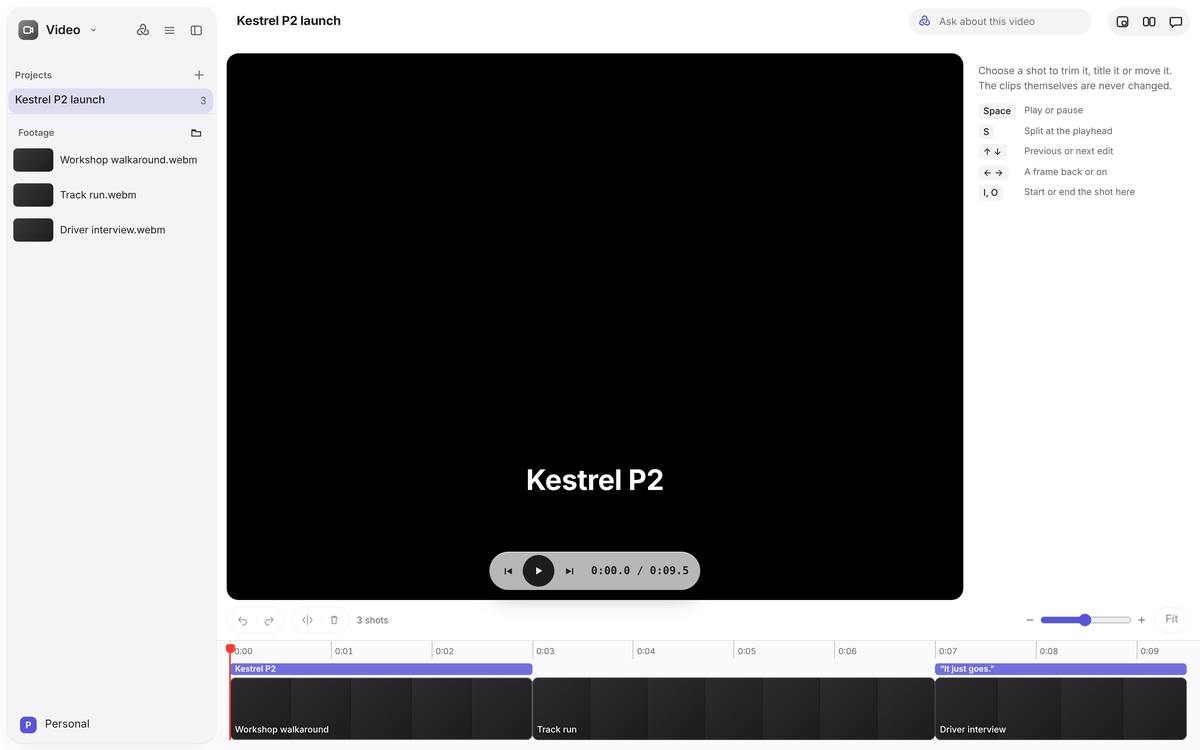
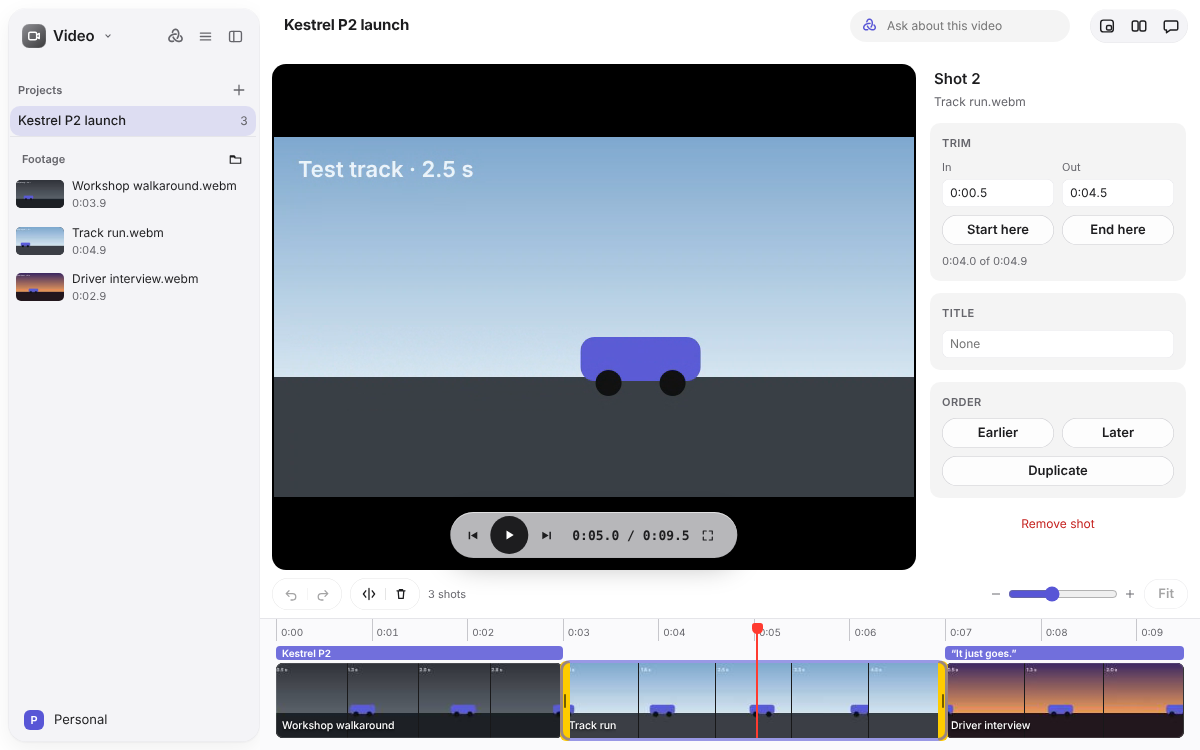
Video: right-click menus, Duplicate, timecode In and Out, full-screen play
- A shot's right-click menu: Split at the playhead, Duplicate, Add or Edit title,
  Move earlier or later, Remove shot, with their keys. Footage clips get one too.
- Duplicate a shot (Ctrl+D / Cmd+D, the menu, or the inspector).
- In and Out read and take timecode (0:02.5) or plain seconds; Enter or leaving
  the field sets it, Escape puts it back.
- Full screen for the viewer and its transport (F, or the button in the HUD).
- Unit tests for duplicateShot and parseTimecode; e2e covers the menu and fields.
- README screenshot and docs/apps/create.md updated.

Claude-Session: https://claude.ai/code/session_01VRGwo9YNE7aMEAh1Jt7qNZ

diff --git a/apps/desktop/src/Video.tsx b/apps/desktop/src/Video.tsx
@@ -1,14 +1,16 @@
 import { RowMark } from './RowMark';
 import { FromMobius } from './FromMobius';
 import { EmptyState } from './EmptyState';
-import { useCallback, useEffect, useMemo, useRef, useState, type DragEvent, type FormEvent, type PointerEvent as ReactPointerEvent, type ReactNode } from 'react';
+import { useCallback, useEffect, useMemo, useRef, useState, type DragEvent, type FormEvent, type MouseEvent as ReactMouseEvent, type PointerEvent as ReactPointerEvent, type ReactNode } from 'react';
+import { createPortal } from 'react-dom';
+import { ContextMenu, type ContextMenuItem } from './ContextMenu';
 import { changedShots, cutLength, locate, parseCut, shotLength, shotStart, timecode, type Cut, type Shot } from './cut-format';
 import { useFileReview } from './useFileReview';
 import type { VideoState } from './useVideo';
 import { ReviewActions, WhyThis } from './ReviewBar';
 import { onCommand } from './commands';
 import { emptyHistory, recorded, redone, undone, type History } from './photo-view';
-import { dropIndex, filmstrip, insertClip, moveShot, nextEdit, removeShot, rulerLabel, rulerMarks, splitAt, trimShot } from './video-view';
+import { dropIndex, duplicateShot, filmstrip, insertClip, moveShot, nextEdit, parseTimecode, removeShot, rulerLabel, rulerMarks, splitAt, trimShot } from './video-view';
 import './video.css';
 
 const Icon = ({ d, fill }: { d: string; fill?: boolean }) => (
@@ -22,6 +24,31 @@ const CLIP_TYPE = 'application/x-mobius-clip';
 const SHOT_TYPE = 'application/x-mobius-shot';
 const FRAME_W = 80;
 const FPS = 30;
+const MOD = () => (window.mobius?.platform === 'darwin' ? '⌘' : 'Ctrl+');
+const FULL = 'M4 8V4h4M16 8V4h-4M4 12v4h4M16 12v4h-4';
+const EXIT_FULL = 'M8 4v4H4M12 4v4h4M8 16v-4H4M12 16v-4h4';
+
+/** A menu where it was asked for, over everything (a glass sidebar would otherwise clip it). */
+type MenuAt = { x: number; y: number; label: string; items: ContextMenuItem[] };
+function Menu({ menu, onClose }: { menu: MenuAt | null; onClose: () => void }) {
+  return menu ? createPortal(<ContextMenu x={menu.x} y={menu.y} label={menu.label} items={menu.items} onClose={onClose} />, document.body) : null;
+}
+
+/** A time in a shot, typed as timecode (1:05.3) or seconds: kept as typed until Enter or leaving the field, Escape puts it back. */
+function TimeField({ label, value, title, onCommit }: { label: string; value: number; title: string; onCommit: (secs: number) => void }) {
+  const [draft, setDraft] = useState<string | null>(null);
+  const shown = draft ?? timecode(value);
+  const bad = draft !== null && parseTimecode(draft) === null;
+  const commit = () => { if (draft === null) return; const got = parseTimecode(draft); setDraft(null); if (got !== null && got !== value) onCommit(got); };
+  return (
+    <label className="video-field" title={title}>
+      <span>{label}</span>
+      <input aria-label={label} inputMode="decimal" spellCheck={false} value={shown} aria-invalid={bad || undefined}
+        onChange={(e) => setDraft(e.target.value)} onBlur={commit}
+        onKeyDown={(e) => { if (e.key === 'Enter') { e.preventDefault(); commit(); } else if (e.key === 'Escape') { e.preventDefault(); setDraft(null); } }} />
+    </label>
+  );
+}
 
 /**
  * Frames from the clips, for the filmstrips and the footage list: read once with a hidden player, a clip at a time,
@@ -89,6 +116,14 @@ export function VideoSidebar({ video, pin, changed }: { video: VideoState; pin?:
   const frame = useFrames(video);
   const submit = async (e: FormEvent) => { e.preventDefault(); if (await video.createProject(name.trim() || 'Project')) { setNaming(false); setName(''); } };
   const addShot = (clip: string) => video.change(insertClip(video.cut, clip, video.lengthOf(clip)));
+  const [menu, setMenu] = useState<MenuAt | null>(null);
+  const clipMenu = (clip: string) => (e: ReactMouseEvent) => {
+    e.preventDefault();
+    setMenu({ x: e.clientX, y: e.clientY, label: clip, items: [
+      { label: 'Add to the end of the cut', run: () => addShot(clip) },
+      { action: 'reveal', label: 'Show in folder', run: () => void video.showFolder(), separated: true },
+    ] });
+  };
   return (
     <aside className="side video-side" aria-label="Video sidebar">
       <div className="side-head">
@@ -131,6 +166,7 @@ export function VideoSidebar({ video, pin, changed }: { video: VideoState; pin?:
               const poster = c.kind === 'video' && len ? frame(c.name, Math.round(Math.min(len / 2, 1) * 4) / 4) : undefined;
               return (
                 <li key={c.name} className="video-clip" draggable title={`${c.name}\nDrag into the timeline, or add it to the end`}
+                  onContextMenu={clipMenu(c.name)}
                   onDragStart={(e) => { e.dataTransfer.setData(CLIP_TYPE, c.name); e.dataTransfer.effectAllowed = 'copy'; }}>
                   <span className="video-clip-thumb" data-kind={c.kind} aria-hidden="true">{poster ? <img src={poster} alt="" draggable={false} /> : null}</span>
                   <span className="video-clip-text">
@@ -145,15 +181,17 @@ export function VideoSidebar({ video, pin, changed }: { video: VideoState; pin?:
         </section>
       )}
       <FromMobius items={video.projects.filter((p) => changed?.has(p.name)).map((p) => ({ key: p.name, name: p.name, current: video.project === p.name, onOpen: () => void video.open(p.name) }))} />
+      <Menu menu={menu} onClose={() => setMenu(null)} />
     </aside>
   );
 }
 
 /** One shot in the timeline: its filmstrip, its title above it, and handles at its ends to trim it. */
-function ShotBlock({ shot, index, width, selected, playing, proposed, frame, onSelect, onTrim, onDragStart }: {
+function ShotBlock({ shot, index, width, selected, playing, proposed, frame, onSelect, onTrim, onDragStart, onMenu }: {
   shot: Shot; index: number; width: number; selected: boolean; playing: boolean; proposed: boolean;
   frame: (clip: string, t: number) => string | undefined;
   onSelect: () => void; onTrim: (edge: 'in' | 'out') => (e: ReactPointerEvent) => void; onDragStart: (e: DragEvent) => void;
+  onMenu: (e: ReactMouseEvent) => void;
 }) {
   const times = filmstrip(shot, width, FRAME_W);
   return (
@@ -169,6 +207,7 @@ function ShotBlock({ shot, index, width, selected, playing, proposed, frame, onS
       draggable
       onDragStart={onDragStart}
       onClick={onSelect}
+      onContextMenu={onMenu}
     >
       <span className="video-shot-film" aria-hidden="true">
         {times.map((t, i) => { const src = frame(shot.clip, t); return <span key={i} className="video-shot-frame">{src ? <img src={src} alt="" draggable={false} /> : null}</span>; })}
@@ -196,6 +235,10 @@ export function VideoEditor({ video, review }: { video: VideoState; review?: { c
   const [zoom, setZoom] = useState<number | null>(null);
   const [dropAt, setDropAt] = useState<number | null>(null);
   const [width, setWidth] = useState(900);
+  const [menu, setMenu] = useState<MenuAt | null>(null);
+  const [full, setFull] = useState(false);
+  const viewer = useRef<HTMLDivElement>(null);
+  const titleField = useRef<HTMLInputElement>(null);
   const frame = useFrames(video);
   const { cut } = video;
   const file = video.project ? `video/${video.project}/cut.json` : null;
@@ -258,6 +301,33 @@ export function VideoEditor({ video, review }: { video: VideoState; review?: { c
   const seek = (to: number) => { const at = Math.max(0, Math.min(total, to)); const where = locate(cut, at); setT(at); if (where) cue(where.index, where.clipTime, playing); };
   const split = () => { const got = splitAt(cut, t); if (got) { edit(got.cut); setSelected(got.id); } };
   const remove = (id: string) => { edit(removeShot(cut, id)); setSelected(null); };
+  const duplicate = (id: string) => { const got = duplicateShot(cut, id); if (got) { edit(got.cut); setSelected(got.id); } };
+  const nameIt = (id: string) => { setSelected(id); window.requestAnimationFrame(() => titleField.current?.focus()); };
+  // Full screen: the viewer with its transport, as QuickTime and iMovie play.
+  const fullScreen = () => {
+    if (document.fullscreenElement) void document.exitFullscreen().catch(() => undefined);
+    else void viewer.current?.requestFullscreen().catch(() => undefined);
+  };
+  useEffect(() => {
+    const look = () => setFull(document.fullscreenElement !== null && document.fullscreenElement === viewer.current);
+    document.addEventListener('fullscreenchange', look);
+    return () => document.removeEventListener('fullscreenchange', look);
+  }, []);
+  /** A shot's right-click menu: the timeline's tools for that one shot, with their keys. */
+  const shotMenu = (s: Shot, i: number) => (e: ReactMouseEvent) => {
+    e.preventDefault();
+    setSelected(s.id);
+    const start = shotStart(cut, i);
+    const inside = t > start && t < start + shotLength(s);
+    setMenu({ x: e.clientX, y: e.clientY, label: `Shot ${i + 1}`, items: [
+      { label: 'Split at the playhead', keys: 'S', disabled: !inside || splitAt(cut, t) === null, run: split },
+      { action: 'duplicate', keys: `${MOD()}D`, run: () => duplicate(s.id) },
+      { action: 'rename', label: s.title ? 'Edit title' : 'Add title', run: () => nameIt(s.id) },
+      { label: 'Move earlier', disabled: i === 0, run: () => edit(moveShot(cut, s.id, i - 1)), separated: true },
+      { label: 'Move later', disabled: i === cut.shots.length - 1, run: () => edit(moveShot(cut, s.id, i + 1)) },
+      { action: 'delete', label: 'Remove shot', keys: 'Delete', danger: true, separated: true, run: () => remove(s.id) },
+    ] });
+  };
   const setShot = (id: string, tag: string, fn: (s: Shot) => void) => edit({ ...cut, shots: cut.shots.map((s) => { if (s.id !== id) return s; const n = { ...s }; fn(n); n.out = Math.max(n.in + 0.1, n.out); return n; }) }, `${tag}:${id}`);
   const playheadIn = (id: string) => cut.shots[index]?.id === id && player.current ? Math.round(player.current.currentTime * 100) / 100 : null;
 
@@ -268,14 +338,16 @@ export function VideoEditor({ video, review }: { video: VideoState; review?: { c
     const mod = e.ctrlKey || e.metaKey;
     if (mod && (e.key === 'z' || e.key === 'Z')) { e.preventDefault(); if (e.shiftKey) redo(); else undo(); return; }
     if (mod && e.key === 'y') { e.preventDefault(); redo(); return; }
-    if (mod || e.altKey) return;
     const sel = selected && cut.shots.find((s) => s.id === selected);
+    if (mod && (e.key === 'd' || e.key === 'D') && !e.shiftKey) { if (sel) { e.preventDefault(); duplicate(sel.id); } return; }
+    if (mod || e.altKey) return;
     if (e.key === ' ' || e.key === 'k') { if (e.target instanceof HTMLButtonElement && e.key === ' ') return; e.preventDefault(); toggle(); }
     else if (e.key === 'ArrowLeft' || e.key === 'ArrowRight') { e.preventDefault(); seek(t + (e.key === 'ArrowRight' ? 1 : -1) * (e.shiftKey ? 1 : 1 / FPS)); }
     else if (e.key === 'ArrowUp' || e.key === 'ArrowDown') { e.preventDefault(); const to = nextEdit(cut, t, e.key === 'ArrowDown' ? 1 : -1); if (to !== null) seek(to); }
     else if (e.key === 'Home') { e.preventDefault(); seek(0); }
     else if (e.key === 'End') { e.preventDefault(); seek(total); }
     else if (e.key === 's' || e.key === 'S') { e.preventDefault(); split(); }
+    else if (e.key === 'f' || e.key === 'F') { if (shot) { e.preventDefault(); fullScreen(); } }
     else if ((e.key === 'Delete' || e.key === 'Backspace') && sel) { e.preventDefault(); remove(sel.id); }
     else if ((e.key === 'i' || e.key === 'o') && sel) { const at = playheadIn(sel.id); if (at !== null) { e.preventDefault(); setShot(sel.id, e.key, (s) => { if (e.key === 'i') s.in = at; else s.out = at; }); } }
     else if (e.key === 'Escape' && sel) setSelected(null);
@@ -369,7 +441,7 @@ export function VideoEditor({ video, review }: { video: VideoState; review?: { c
   return (
     <section ref={page} className="video-page" aria-label="Video" onDragOver={(e) => e.preventDefault()} onDrop={onDrop}>
       <div className="video-top">
-        <div className="video-viewer">
+        <div ref={viewer} className="video-viewer" data-full={full || undefined}>
           <div className="video-screen">
             <video ref={player} className="video-player" aria-label="Viewer" playsInline onTimeUpdate={onTime} onEnded={onTime} onError={() => setUnplayable(true)} onLoadedMetadata={() => setUnplayable(false)} onClick={toggle} />
             {shot?.title && <div className="video-title">{shot.title}</div>}
@@ -381,6 +453,7 @@ export function VideoEditor({ video, review }: { video: VideoState; review?: { c
             <button type="button" className="video-play" aria-label={playing ? 'Pause' : 'Play'} title={`${playing ? 'Pause' : 'Play'} (Space)`} disabled={!shot} onClick={toggle}><Icon d={playing ? PAUSE : PLAY} fill /></button>
             <button type="button" className="strip-btn" aria-label="Next edit" title="Next edit (↓)" disabled={!shot} onClick={() => { const to = nextEdit(cut, t, 1); if (to !== null) seek(to); }}><Icon d="M13.5 5h2v10h-2zM4 5l8.5 5L4 15z" fill /></button>
             <span className="video-time" aria-label="Time">{`${timecode(t)} / ${timecode(total)}`}</span>
+            <button type="button" className="strip-btn" aria-label={full ? 'Exit full screen' : 'Full screen'} title={`${full ? 'Exit full screen' : 'Full screen'} (F)`} disabled={!shot} onClick={fullScreen}><Icon d={full ? EXIT_FULL : FULL} /></button>
           </div>
         </div>
         <aside className="video-inspector" aria-label="Shot">
@@ -393,8 +466,8 @@ export function VideoEditor({ video, review }: { video: VideoState; review?: { c
               <section className="video-group" aria-label="Trim">
                 <h3>Trim</h3>
                 <div className="video-fields">
-                  <label className="video-field"><span>In</span><input aria-label="In" type="number" step={0.1} min={0} value={sel.in} onChange={(e) => setShot(sel.id, 'in', (s) => { s.in = Math.max(0, Number(e.target.value) || 0); })} /></label>
-                  <label className="video-field"><span>Out</span><input aria-label="Out" type="number" step={0.1} min={0} value={sel.out} onChange={(e) => setShot(sel.id, 'out', (s) => { s.out = Math.min(video.lengthOf(s.clip) || Infinity, Number(e.target.value) || 0); })} /></label>
+                  <TimeField key={`in-${sel.id}`} label="In" value={sel.in} title="Where the shot starts in its clip: 0:02.5, or seconds" onCommit={(v) => setShot(sel.id, 'in', (s) => { s.in = Math.max(0, Math.min(v, s.out - 0.1)); })} />
+                  <TimeField key={`out-${sel.id}`} label="Out" value={sel.out} title="Where the shot ends in its clip: 0:06.0, or seconds" onCommit={(v) => setShot(sel.id, 'out', (s) => { s.out = Math.min(video.lengthOf(s.clip) || Infinity, v); })} />
                 </div>
                 <div className="video-pair">
                   <button type="button" className="btn" disabled={playheadIn(sel.id) === null} title="Start the shot at the playhead (I)" onClick={() => { const at = playheadIn(sel.id); if (at !== null) setShot(sel.id, 'in', (s) => { s.in = at; }); }}>Start here</button>
@@ -404,7 +477,7 @@ export function VideoEditor({ video, review }: { video: VideoState; review?: { c
               </section>
               <section className="video-group" aria-label="Title">
                 <h3>Title</h3>
-                <input className="video-text" aria-label="Title" value={sel.title} maxLength={200} placeholder="None" onChange={(e) => setShot(sel.id, 'title', (s) => { s.title = e.target.value; })} />
+                <input ref={titleField} className="video-text" aria-label="Title" value={sel.title} maxLength={200} placeholder="None" onChange={(e) => setShot(sel.id, 'title', (s) => { s.title = e.target.value; })} />
               </section>
               <section className="video-group" aria-label="Order">
                 <h3>Order</h3>
@@ -412,6 +485,7 @@ export function VideoEditor({ video, review }: { video: VideoState; review?: { c
                   <button type="button" className="btn" disabled={selIndex <= 0} onClick={() => edit(moveShot(cut, sel.id, selIndex - 1))}>Earlier</button>
                   <button type="button" className="btn" disabled={selIndex >= cut.shots.length - 1} onClick={() => edit(moveShot(cut, sel.id, selIndex + 1))}>Later</button>
                 </div>
+                <button type="button" className="btn video-wide" title={`Put a copy of the shot after it (${MOD()}D)`} onClick={() => duplicate(sel.id)}>Duplicate</button>
               </section>
               <button type="button" className="video-remove" onClick={() => remove(sel.id)}>Remove shot</button>
             </>
@@ -424,6 +498,8 @@ export function VideoEditor({ video, review }: { video: VideoState; review?: { c
                 <dt>↑ ↓</dt><dd>Previous or next edit</dd>
                 <dt>← →</dt><dd>A frame back or on</dd>
                 <dt>I, O</dt><dd>Start or end the shot here</dd>
+                <dt>{`${MOD()}D`}</dt><dd>Duplicate the shot</dd>
+                <dt>F</dt><dd>Full screen</dd>
               </dl>
             </div>
           )}
@@ -465,13 +541,15 @@ export function VideoEditor({ video, review }: { video: VideoState; review?: { c
               <ShotBlock key={s.id} shot={s} index={i} width={Math.max(12, shotLength(s) * pxPerSec)} selected={selected === s.id} playing={index === i} proposed={changed.has(s.id)} frame={frame}
                 onSelect={() => { setSelected(s.id); seek(shotStart(cut, i)); }}
                 onTrim={trimDown(s.id)}
-                onDragStart={(e) => { e.dataTransfer.setData(SHOT_TYPE, s.id); e.dataTransfer.effectAllowed = 'move'; }} />
+                onDragStart={(e) => { e.dataTransfer.setData(SHOT_TYPE, s.id); e.dataTransfer.effectAllowed = 'move'; }}
+                onMenu={shotMenu(s, i)} />
             ))}
             {dropAt !== null && <span className="video-drop" style={{ left: shotStart(cut, dropAt) * pxPerSec }} aria-hidden="true" />}
           </div>
           <span className="video-playhead" style={{ left: t * pxPerSec }} aria-hidden="true" onPointerDown={scrubDown} />
         </div>
       </div>
+      <Menu menu={menu} onClose={() => setMenu(null)} />
     </section>
   );
 }

diff --git a/apps/desktop/src/video-view.test.ts b/apps/desktop/src/video-view.test.ts
@@ -1,6 +1,6 @@
 import { describe, expect, it } from 'vitest';
 import type { Cut } from './cut-format';
-import { dropIndex, editPoints, filmstrip, insertClip, moveShot, nextEdit, removeShot, rulerLabel, rulerMarks, splitAt, trimShot } from './video-view';
+import { dropIndex, duplicateShot, editPoints, filmstrip, insertClip, moveShot, nextEdit, parseTimecode, removeShot, rulerLabel, rulerMarks, splitAt, trimShot } from './video-view';
 
 const cut: Cut = { version: 1, shots: [
   { id: 's1', clip: 'a.mp4', in: 1, out: 4, title: 'Hello' },
@@ -56,5 +56,33 @@ describe('the timeline', () => {
   it('picks a frame for each part of a shot', () => {
     expect(filmstrip(cut.shots[0]!, 180, 60)).toEqual([1.5, 2.5, 3.5]);
     expect(filmstrip(cut.shots[1]!, 20, 60)).toEqual([1]);
+  });
+});
+
+describe('duplicateShot', () => {
+  it('puts a copy with a fresh id right after the shot, and keeps its trim and title', () => {
+    const got = duplicateShot(cut, cut.shots[0]!.id)!;
+    expect(got.cut.shots).toHaveLength(cut.shots.length + 1);
+    const copy = got.cut.shots[1]!;
+    expect(copy.id).toBe(got.id);
+    expect(cut.shots.some((s) => s.id === copy.id)).toBe(false);
+    expect({ ...copy, id: '' }).toEqual({ ...cut.shots[0]!, id: '' });
+    expect(got.cut.shots[2]).toBe(cut.shots[1]);
+  });
+  it('is null for a shot that is not there', () => expect(duplicateShot(cut, 'nope')).toBeNull());
+});
+
+describe('parseTimecode', () => {
+  it('reads timecode and plain seconds', () => {
+    expect(parseTimecode('1:05.3')).toBe(65.3);
+    expect(parseTimecode('0:05')).toBe(5);
+    expect(parseTimecode(' 2.5 ')).toBe(2.5);
+    expect(parseTimecode('7')).toBe(7);
+    expect(parseTimecode('1:02:03.5')).toBe(3723.5);
+    expect(parseTimecode('0:02,5')).toBe(2.5);
+    expect(parseTimecode('.5')).toBe(0.5);
+  });
+  it('is null for anything else', () => {
+    for (const bad of ['', 'abc', '1:', ':5', '-1', '1.5:00', '1:2:3:4', '5s']) expect(parseTimecode(bad)).toBeNull();
   });
 });

diff --git a/apps/desktop/e2e/video.spec.ts b/apps/desktop/e2e/video.spec.ts
@@ -56,7 +56,11 @@ test('clips are played through the media address, added to the cut as shots, tri
 
   await timeline().getByRole('option', { name: /^Shot 2: sunset\.webm/ }).click();
   const shot = shell().getByRole('complementary', { name: 'Shot' });
-  await shot.getByRole('spinbutton', { name: 'Out' }).fill('2.5');
+  // In and Out read as timecode, and take it or plain seconds.
+  await expect(shot.getByRole('textbox', { name: 'Out' })).toHaveValue('0:05.0');
+  await shot.getByRole('textbox', { name: 'Out' }).fill('2.5');
+  await shot.getByRole('textbox', { name: 'Out' }).press('Enter');
+  await expect(shot.getByRole('textbox', { name: 'Out' })).toHaveValue('0:02.5');
   await shot.getByRole('textbox', { name: 'Title' }).fill('Sunset');
   await shot.getByRole('button', { name: 'Earlier' }).click();
   await expect.poll(() => saved().shots.map((s) => [s.clip, s.out, (s as { title?: string }).title ?? ''])).toEqual([['sunset.webm', 2.5, 'Sunset'], ['terrace.webm', 5, '']]);
@@ -66,6 +70,11 @@ test('clips are played through the media address, added to the cut as shots, tri
   await shell().getByRole('toolbar', { name: 'Transport' }).getByRole('button', { name: 'Play' }).click();
   await expect(shell().getByLabel('Time', { exact: true })).not.toHaveText(before ?? '', { timeout: 5000 });
   await expect(shell().getByRole('status').filter({ hasText: 'cannot be played' })).toHaveCount(0);
+
+  // A shot's right-click menu duplicates it, the copy right after it.
+  await timeline().getByRole('option', { name: /^Shot 1: sunset\.webm/ }).click({ button: 'right' });
+  await shell().getByRole('menu', { name: 'Shot 1' }).getByRole('menuitem', { name: 'Duplicate' }).click();
+  await expect.poll(() => saved().shots.map((s) => [s.clip, s.out, (s as { title?: string }).title ?? ''])).toEqual([['sunset.webm', 2.5, 'Sunset'], ['sunset.webm', 2.5, 'Sunset'], ['terrace.webm', 5, '']]);
 });
 
 test('a rough cut from Mobius is shown dashed, and kept', async () => {

diff --git a/apps/desktop/src/video-view.ts b/apps/desktop/src/video-view.ts
@@ -108,3 +108,25 @@ export function filmstrip(shot: Shot, widthPx: number, frameWidth: number): numb
   // Rounded to a quarter second, so neighbouring shots of the same clip share frames.
   return Array.from({ length: n }, (_, i) => Math.round((shot.in + ((i + 0.5) / n) * len) * 4) / 4);
 }
+
+/** The cut with a copy of a shot put in right after it, and the copy's id; null when there is no such shot. */
+export function duplicateShot(cut: Cut, id: string): { cut: Cut; id: string } | null {
+  const i = cut.shots.findIndex((s) => s.id === id);
+  if (i < 0) return null;
+  const copy = { ...cut.shots[i]!, id: freshShotId(cut) };
+  const shots = [...cut.shots];
+  shots.splice(i + 1, 0, copy);
+  return { cut: { ...cut, shots }, id: copy.id };
+}
+
+/**
+ * Seconds from what someone typed in a timecode field: "1:05.3", "0:05", "65.3" or "5". Null when it is not a time.
+ * Hours are allowed ("1:02:03.5"), as is a comma for the decimal point.
+ */
+export function parseTimecode(text: string): number | null {
+  const parts = text.trim().replace(',', '.').split(':');
+  if (parts.length === 0 || parts.length > 3 || parts.some((p) => !/^\d+(\.\d*)?$|^\.\d+$/.test(p))) return null;
+  if (parts.slice(0, -1).some((p) => p.includes('.'))) return null;
+  const secs = parts.reduce((sum, p) => sum * 60 + Number(p), 0);
+  return Number.isFinite(secs) ? round(secs) : null;
+}

diff --git a/apps/desktop/src/video.css b/apps/desktop/src/video.css
@@ -103,3 +103,10 @@
 /* A narrow window keeps the inspector, narrower: trimming and titling need it. */
 @media (max-width: 1100px) { .video-top { grid-template-columns: minmax(0, 1fr) 200px; } .video-hud .video-time { font-size: 12px; } }
 @media (prefers-reduced-motion: reduce) { .video-play { transition: none; } }
+
+/* Round 1 polish: a full-width button in a group, a field that does not read as a time, and the viewer full screen. */
+.video-wide { width: 100%; justify-content: center; }
+.video-field input[aria-invalid] { box-shadow: inset 0 0 0 1px var(--danger); }
+.video-viewer:fullscreen { background: #000; }
+.video-viewer:fullscreen .video-screen { border-radius: 0; }
+.video-viewer:fullscreen .video-hud { bottom: var(--sp-6); }

diff --git a/README.md b/README.md
@@ -150,7 +150,7 @@ Mobius's own apps, always there.
 <td width="50%" valign="top"><img src="docs/readme/apps/music.png" alt="The Music app in Mobius"><br><b>Music</b> · A small studio for writing songs as notes: tracks, piano roll, mixer.<br><sub>Write a tune or a sting. Mobius reads and writes notes, so it can add a bassline.</sub></td>
 </tr>
 <tr>
-<td width="50%" valign="top"><img src="docs/readme/apps/video.png" alt="The Video app in Mobius"><br><b>Video</b> · Cut footage into a short film on a timeline.<br><sub>Trim, split and order shots in a filmstrip timeline, and ask Mobius about the cut.</sub></td>
+<td width="50%" valign="top"><img src="docs/readme/apps/video.png" alt="The Video app in Mobius"><br><b>Video</b> · Cut footage into a short film on a timeline.<br><sub>Trim, split, duplicate and order shots in a filmstrip timeline, and ask Mobius about the cut.</sub></td>
 <td width="50%" valign="top"><img src="docs/readme/apps/code.png" alt="The Code app in Mobius"><br><b>Code</b> · A code editor for projects in your workspace, with git.<br><sub>Edit, find, run tests and commit. Mobius proposes changes you review line by line.</sub></td>
 </tr>
 <tr>

diff --git a/docs/apps/create.md b/docs/apps/create.md
@@ -66,8 +66,12 @@ Cut footage into a short film.
 ![The Video app in Mobius](../readme/apps/video.png)
 
 - **Projects** in the sidebar, each with its footage. Add a clip to the cut or drag it into the timeline.
-- **The timeline** shows each shot as a filmstrip. Trim from either end, split, move and remove shots.
-- **The viewer** plays the shots in order, and the chosen shot's details sit beside it.
+- **The timeline** shows each shot as a filmstrip. Trim from either end, split, duplicate, move and remove shots.
+  Right-click a shot for its menu, or a clip in Footage to add it or show its folder.
+- **The viewer** plays the shots in order, and full screen with F. The chosen shot's details sit beside it, with In
+  and Out as timecode (type `0:02.5`, or plain seconds).
+- **Keys** as in other editors: Space plays, S splits, I and O set the shot's start and end at the playhead,
+  Ctrl+D (⌘D on a Mac) duplicates, the arrows step a frame and Up and Down jump between edits.
 
 **Kept in:** `workspace/video/<project>/`, the cut as `cut.json`. Your clips are never changed.
 
